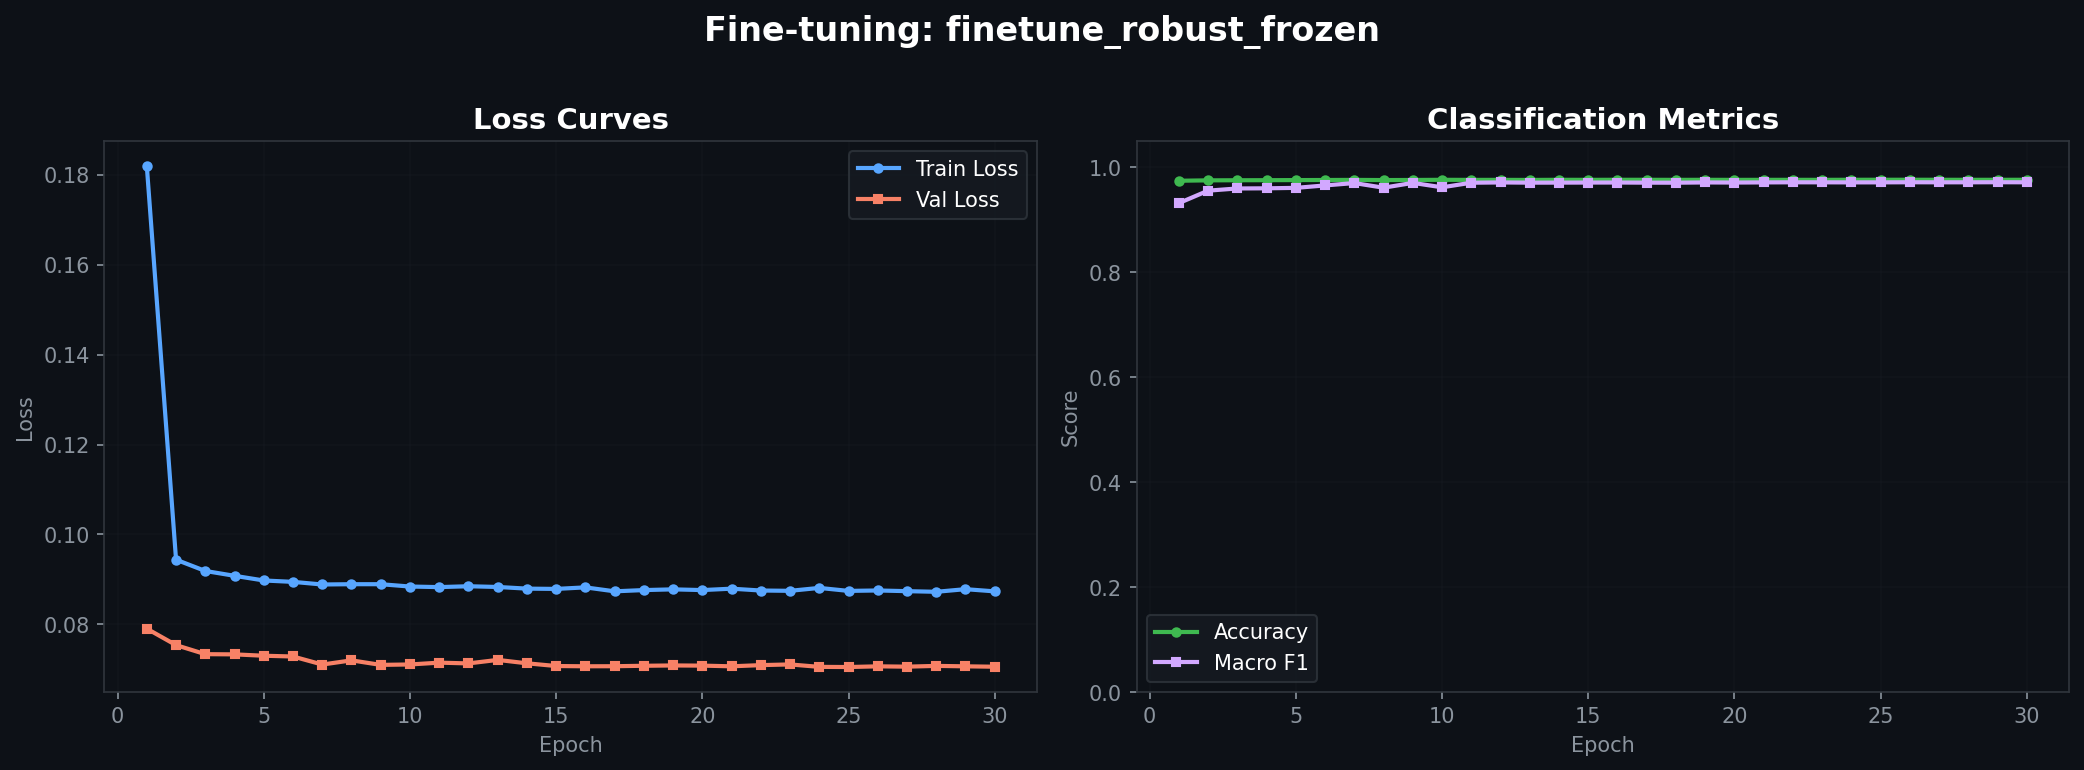
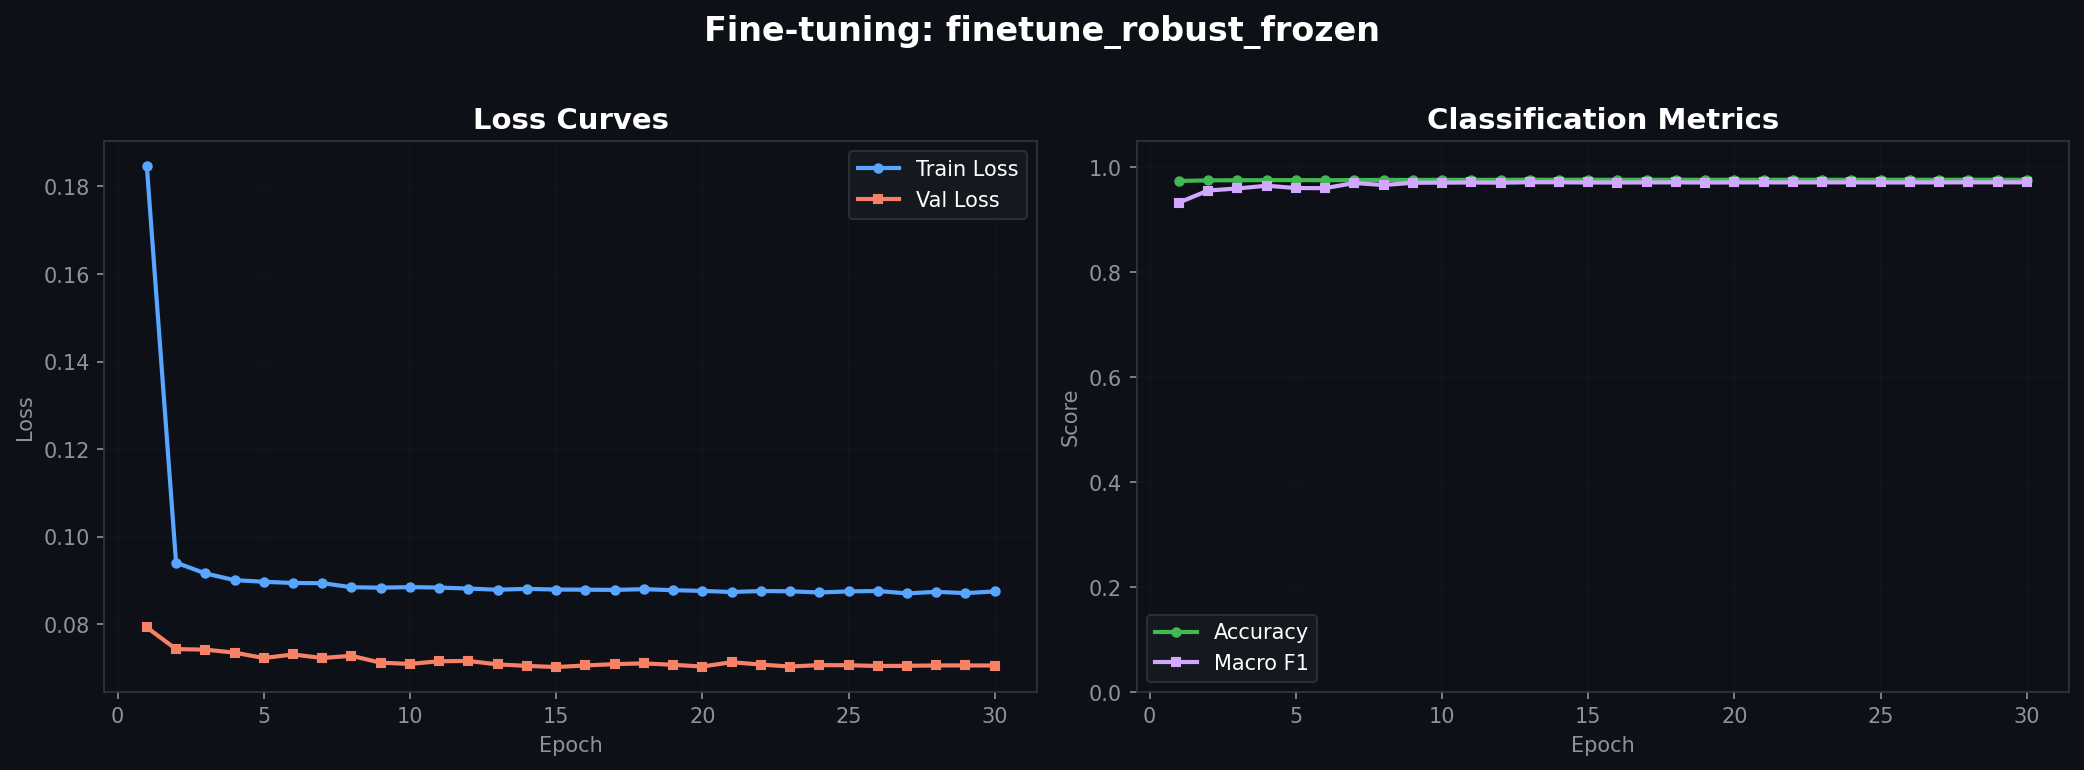
fix: tuple unpacking DataLoader phase 3

diff --git a/run_experiments.py b/run_experiments.py
@@ -278,9 +278,9 @@ def calculate_and_save_centroids(model, dataloader, out_dir, device, label_map):
     
     print(f"\n🎯 Đang tự động tạo bản đồ hành vi (Centroids) cho {len(label_map)} thiết bị...")
     with torch.no_grad():
-        for batch in tqdm(dataloader, desc="Calculating centroids"):
-            x = batch["features"].to(device)
-            y = batch["labels"].to(device)
+        for x, y in tqdm(dataloader, desc="Calculating centroids"):
+            x = x.to(device)
+            y = y.to(device)
             
             # Lấy embedding từ encoder (Attention Pooling)
             embeddings = model.encoder(x)
